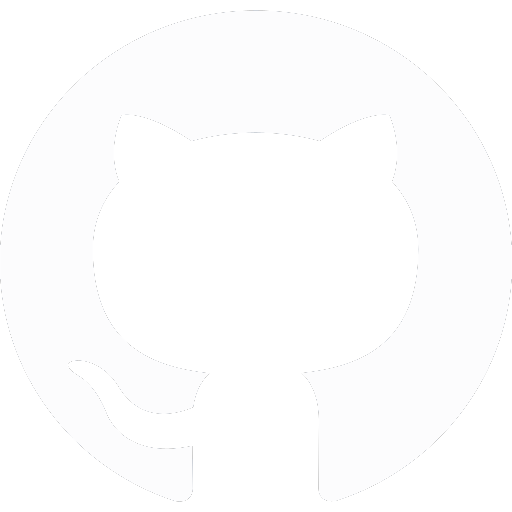
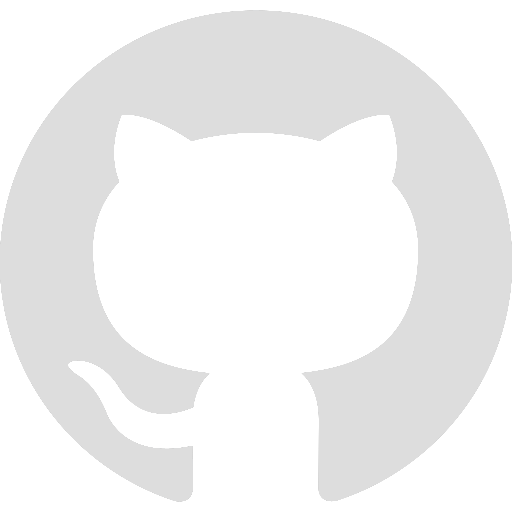
color #fff -> color #ddd

diff --git a/index.css b/index.css
@@ -59,7 +59,7 @@ header{
 }
 
 .menu__element{
-    color: #fff;
+    color: #ddd;
     text-decoration: none;
 }
 
@@ -102,7 +102,7 @@ header{
 
 #firstname{
     font-size: inherit;
-    color: white;
+    color: #ddd;
 }
 
 #name{
@@ -140,8 +140,8 @@ header{
     text-align: center;
     padding: 1.5%;
     border: none;
-    border: 2px solid #fff;
-    color: #fff;
+    border: 2px solid #aaa;
+    color: #ddd;
     margin-top: 5%; 
     font-size: 1.2rem;
 }
@@ -167,7 +167,7 @@ header{
     flex-direction: column;
     align-items: center;
     width: 60rem;
-    color:#fff;
+    color: #ddd;
 }
 
 .join-me-on__title{
@@ -189,8 +189,8 @@ header{
     padding: 1rem 0;
     margin: 2rem 2rem;
     text-decoration: none;
-    border: 1px solid #fff;
-    color: #fff;
+    border: 1px solid #aaa;
+    color: #ddd;
     background-color: #181818;
 }
 
@@ -207,7 +207,7 @@ header{
 }
 
 .join-me-on__box__element:hover{
-    color: #fff;
+    color: #ddd;
     background-color: #101010;
     border: 1px solid #26ce9f;
 }
@@ -305,7 +305,7 @@ footer{
     justify-content: center;
     align-items: center;
     text-decoration: none;
-    color: #fff;
+    color: #ddd;
 }
 
 .license__name::after{
@@ -409,10 +409,15 @@ footer{
         padding-bottom: 5%;
     }
 
-}
+    .container__contact{
+        border: 1px solid white;
+    }
 
-@media (max-height: 330px){
-    .container-box{
-        padding: 1.5%
+    .container__contact:hover{
+        border: 1px solid #26ce9f;
+    }
+
+    .join-me-on__box__element{
+        border: 1px solid #aaa;
     }
 }
